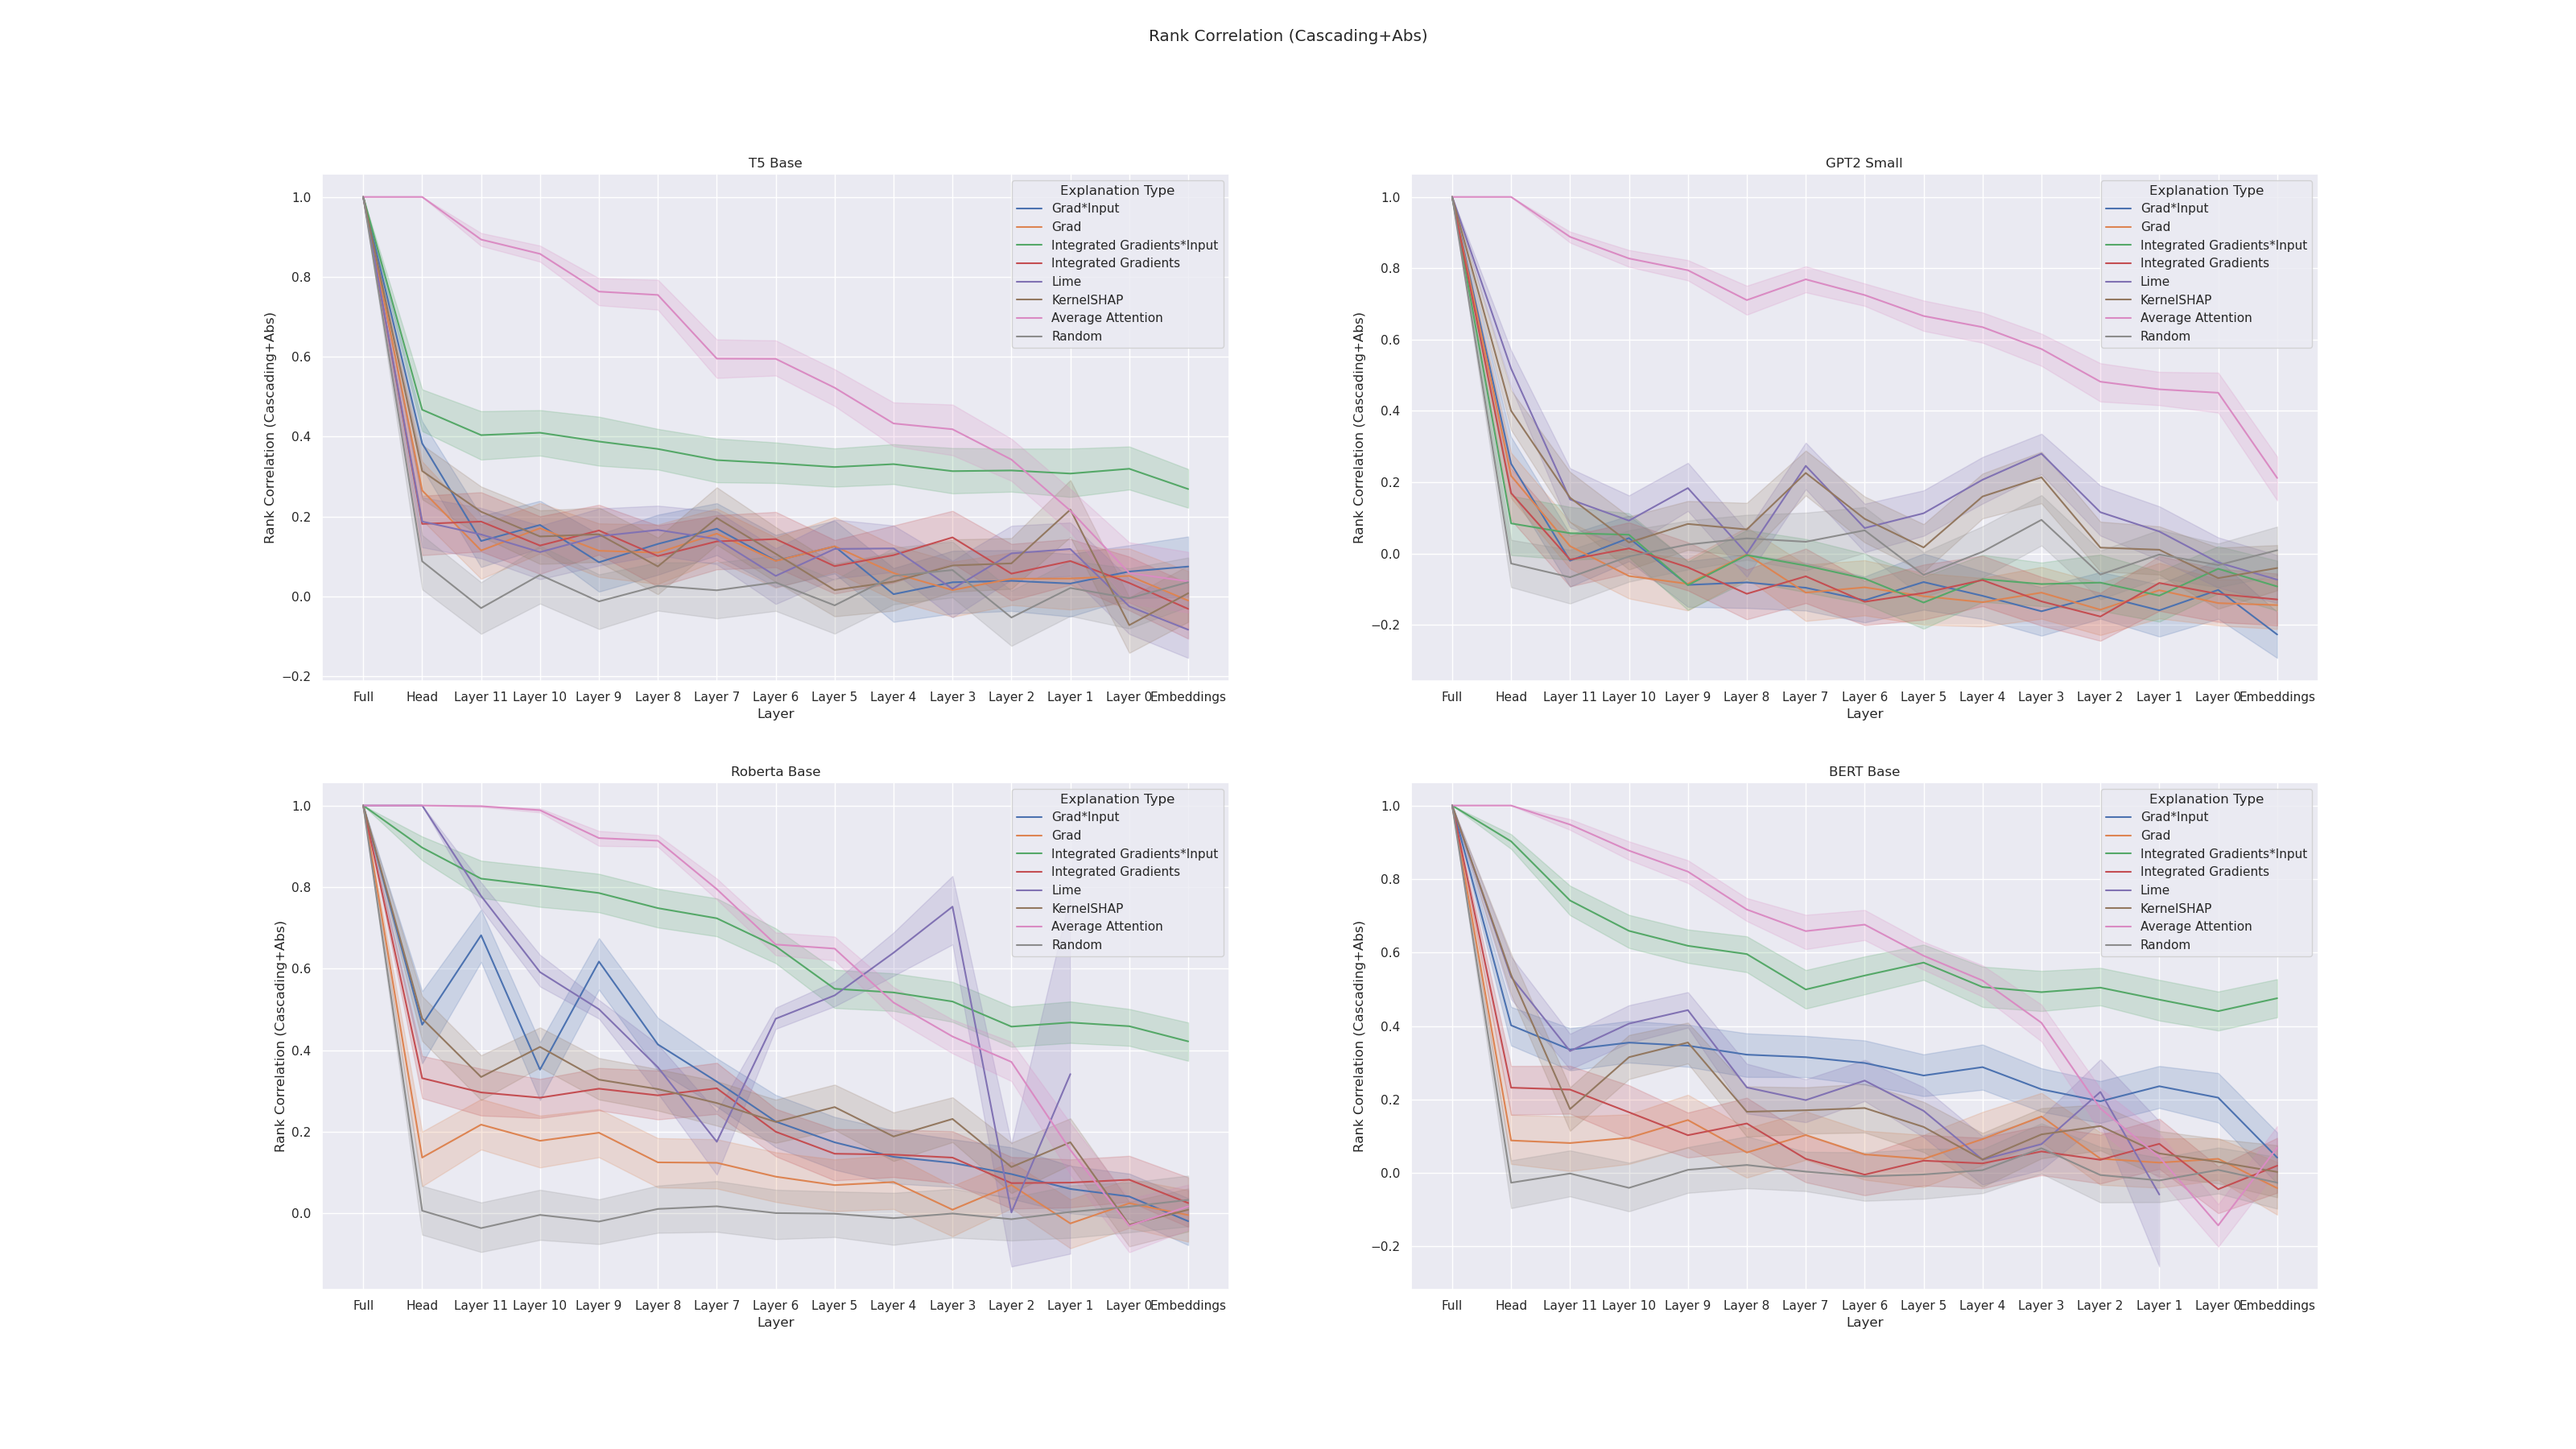
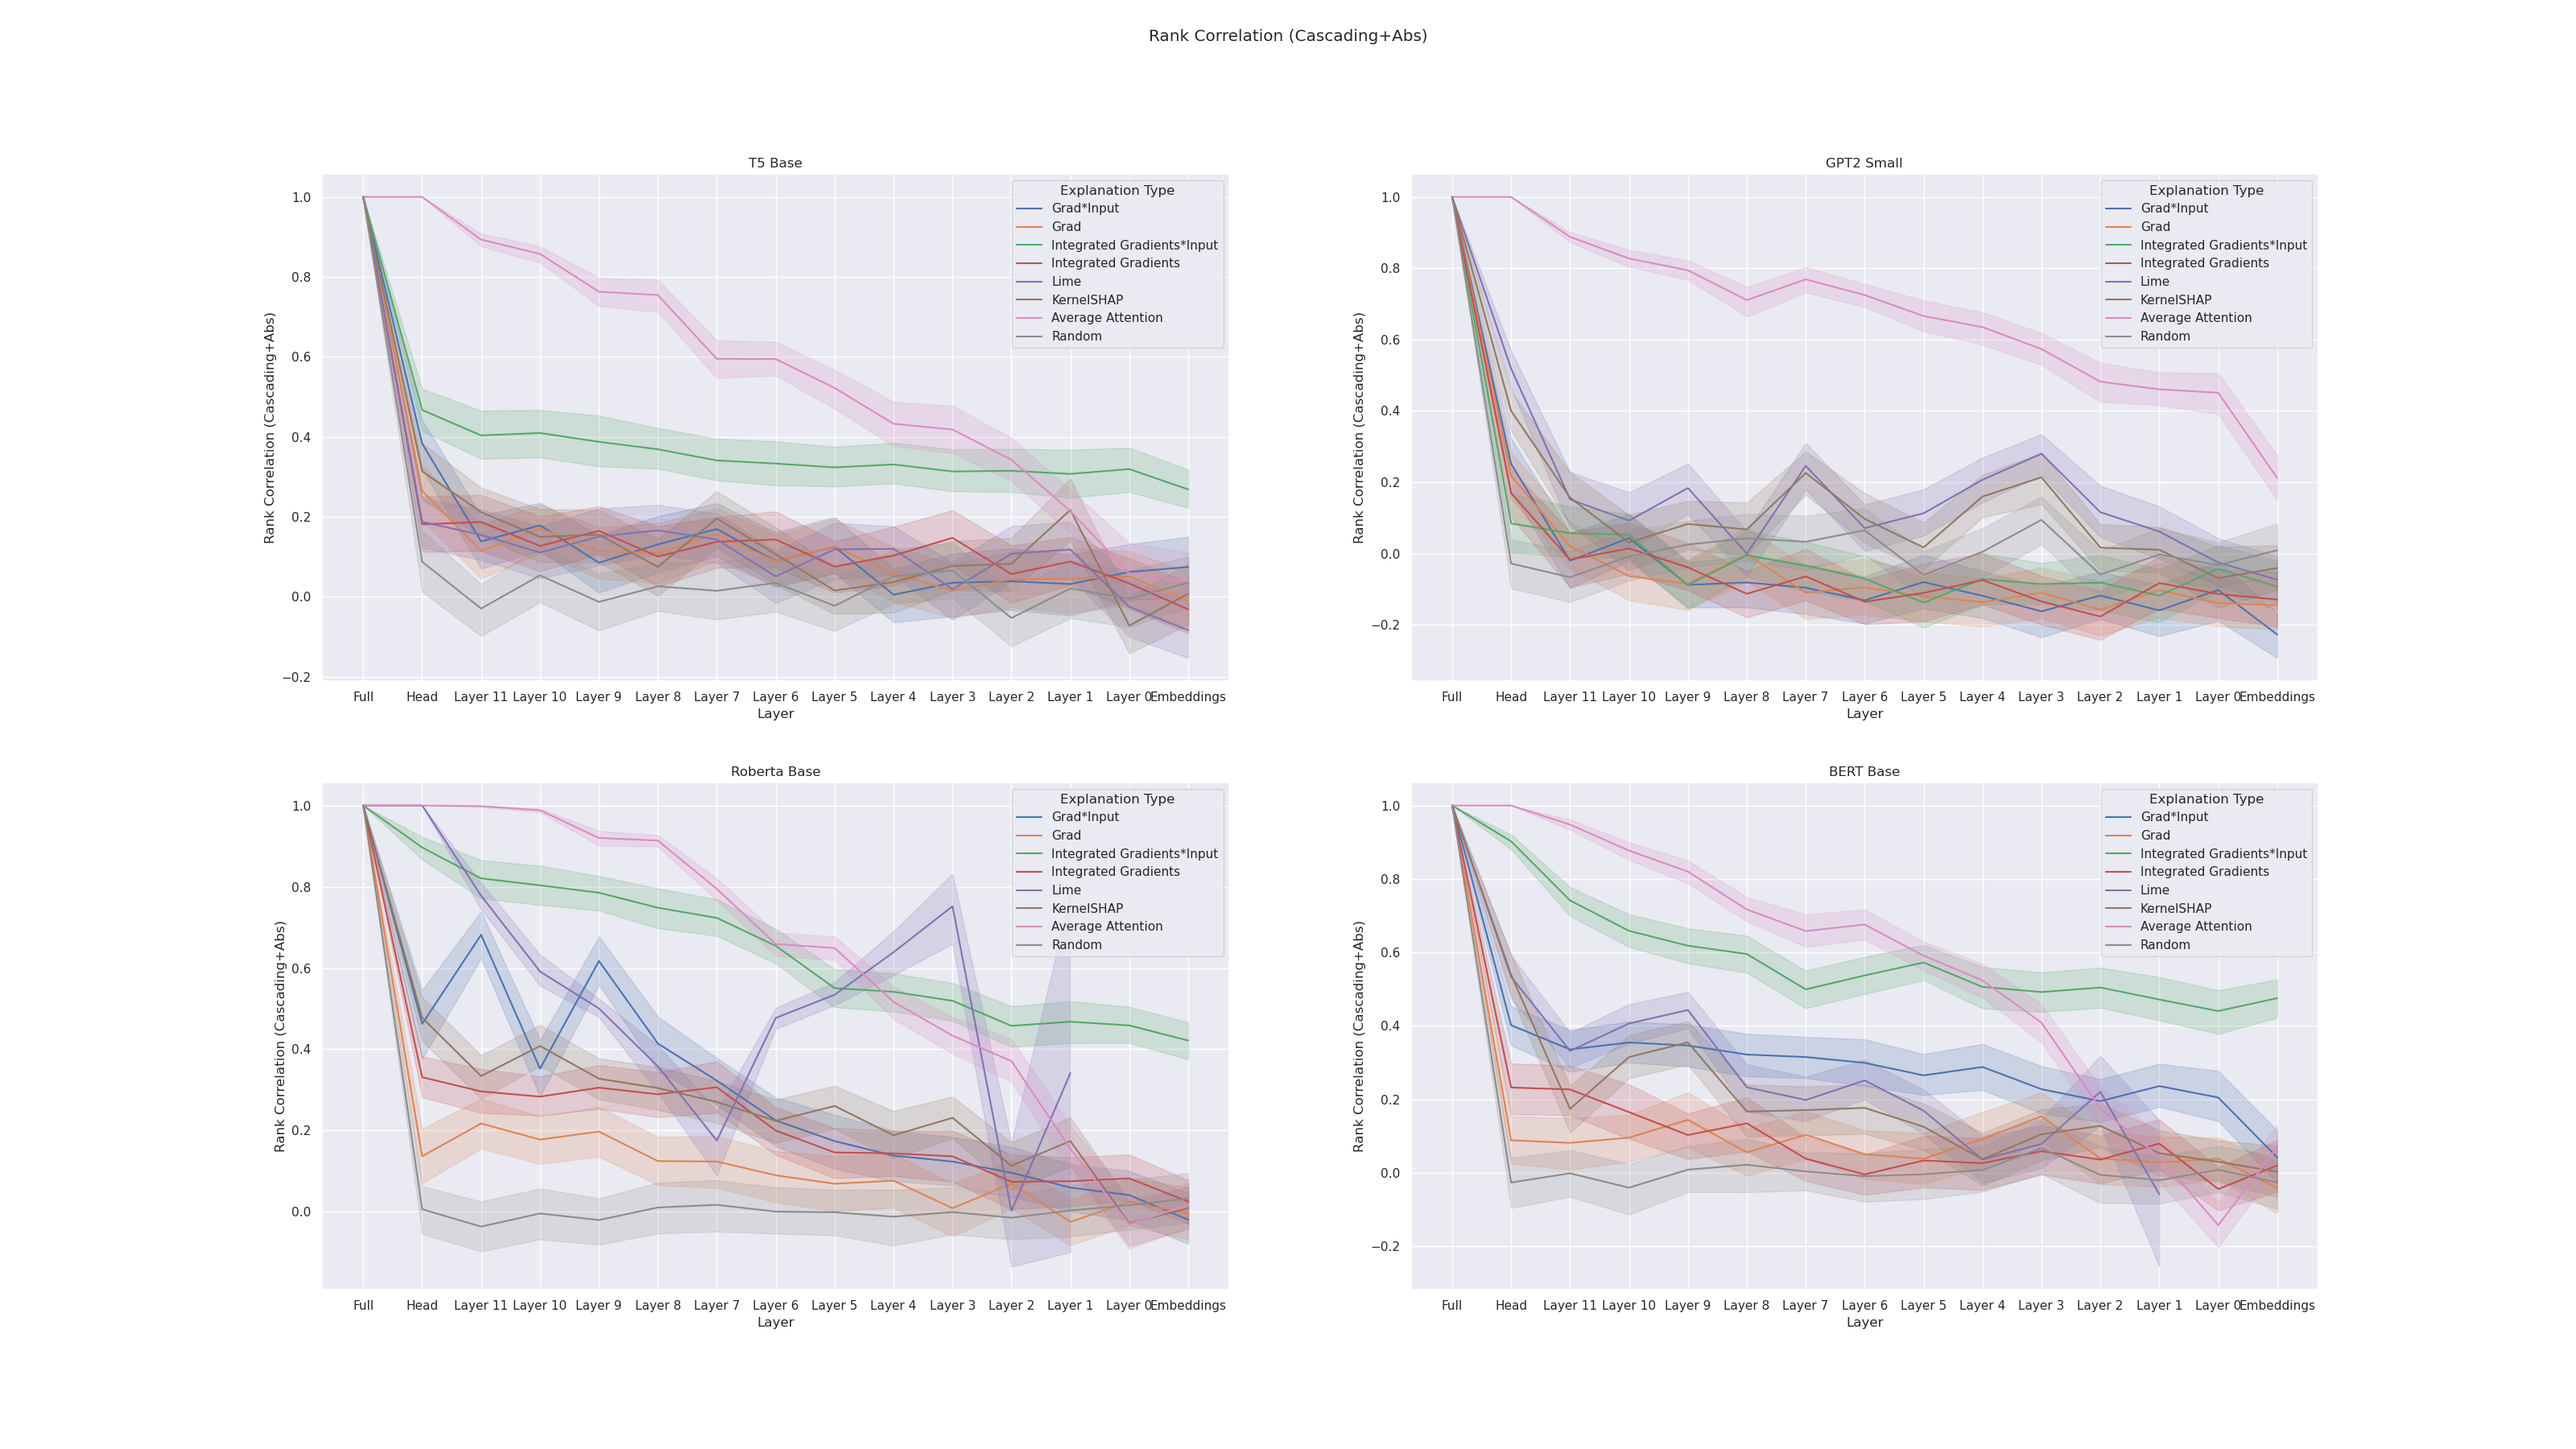
training script update

diff --git a/generate_layer_randomization_plots.py b/generate_layer_randomization_plots.py
@@ -16,7 +16,7 @@ ex = Experiment("explanation-metrics")
 @ex.config 
 def config():
     seed = 12345
-    dataset_name = 'mnli'
+    dataset_name = 'spurious_sst'
     # run_names = [f"dn_t5_tiny_enc/{dataset_name}/cls-finetune", f"dn_t5_mini_enc/{dataset_name}/cls-finetune", 
     #             f"dn_t5_small_enc/{dataset_name}/cls-finetune", f"dn_t5_base_enc/{dataset_name}/cls-finetune"]
     run_names = [f't5_base_enc/{dataset_name}/cls-finetune', f'gpt2_small/{dataset_name}/cls-finetune',
@@ -29,9 +29,9 @@ def config():
                             'shap/shap':"KernelSHAP","attention/average_attention":"Average Attention", "random/random_baseline":"Random"}
     explanation_types = ['gradients/gradients_x_input', 'gradients/gradients', 'gradients/integrated_gradients_x_input', 
                         'gradients/integrated_gradients', 'lime/lime', 'shap/shap', 'attention/average_attention', 'random/random_baseline']    
-    input_folder = "./explanation_outputs/layer_randomization_outputs_diff_archs"
+    input_folder = "./explanation_outputs/layer_randomization_diff_archs_new"
     output_folder = f"./layer_randomization_graphs_diff_archs/{dataset_name}"
-    cascading = False
+    cascading = True
     absolute_value = True
     if cascading:
         if absolute_value:

diff --git a/dataset_wrappers/spurious_sst.py b/dataset_wrappers/spurious_sst.py
@@ -78,18 +78,6 @@ class SpuriousSSTDataset:
                 return example 
             else:
                 token_out = tokenizer(example["sentence"], truncation=True, max_length=max_length)
-                print(example["sentence"][97])
-                print(token_out["input_ids"][97])
-                print(tokenizer.decode(token_out["input_ids"][97]))
-                print(example["sentence"][45])
-                print(token_out["input_ids"][45])
-                print(tokenizer.decode(token_out['input_ids'][45]))
-                print(tokenizer.decode([4633]))
-                print(tokenizer.decode([3967]))
-                print(tokenizer.decode([31591]))
-                print(tokenizer.decode([0]))
-                print(spurious_neg_token_ids)
-                print(spurious_pos_token_ids)
                 if self.add_ground_truth_attributions:
                     ground_truth_masks = self.get_spurious_token_mask(token_out["input_ids"], spurious_pos_token_ids, spurious_neg_token_ids, example["labels"])
                     example.update({"ground_truth_attributions":ground_truth_masks})            
